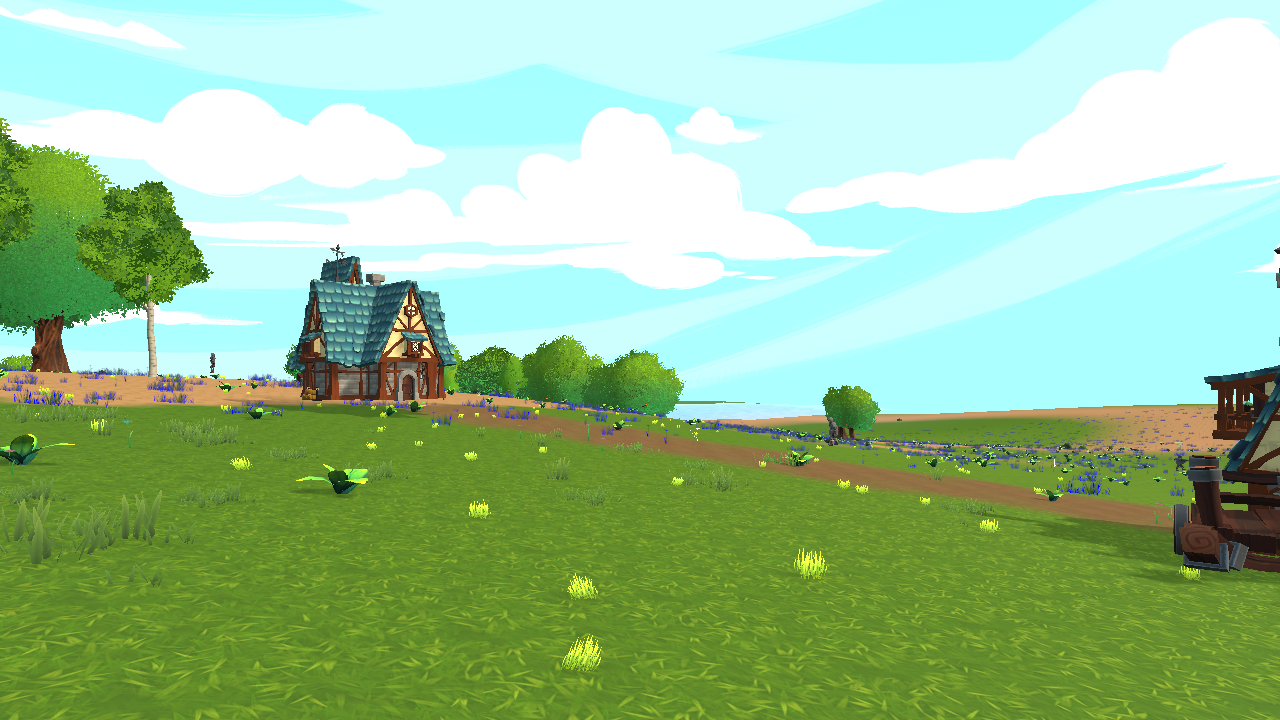
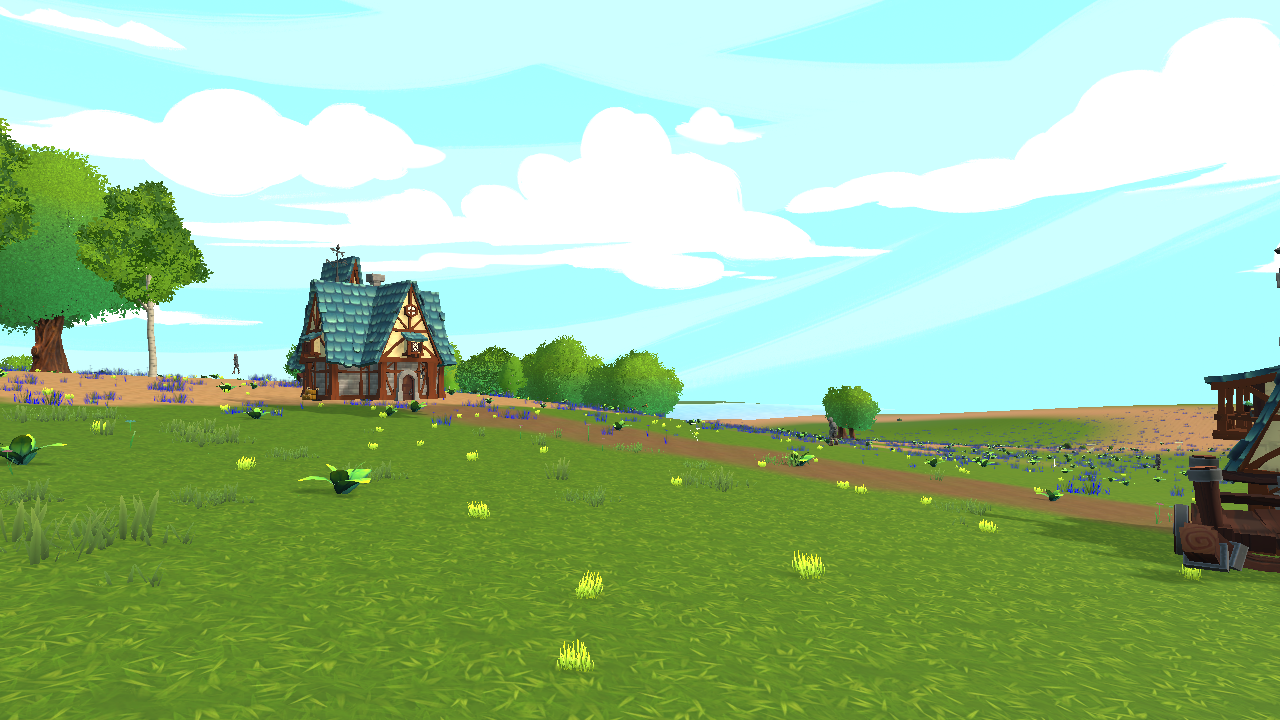
TD-133: THE GROUND HAD NEVER SAMPLED A SINGLE NORMAL MAP (D-249)
EP: "the packs also contain roads, cobblestone etc" and "we want as close to AAA quality
on the environment as possible". Measured in three steps.

1. ARE THERE ROAD MESHES TO USE? No. Searched both paid packs: no road/street/pavement
   prefabs at all, only stairs and streetlamps. So painting the terrain IS the right
   method for the ways, not a shortcut.

2. THE GROUND LAYERS. The project holds FIFTEEN TerrainLayer assets; the catalog only
   ever asked for eleven, and the two it never asked for by name are the ones that matter
   here -- Layer_walkway_city_01/02 are the City pack's own ROAD surfaces. Our cobble was
   pavingstone_01, chosen from a candidate list the pack's actual road was not even in.
   The walkway layers now lead that chain; Layer_Cobblestone stays but last, because the
   catalog has warned twice that it carries NO diffuse at all -- a layer without a
   texture is not a layer. Catalog resolves 15/17.

3. AND THE ONE THAT WAS WORTH MOST. Every ground layer these packs ship carries a normal
   map, and the six we use carry one each. Before:

     terrain material: Universal Render Pipeline/Terrain/Lit  keywords=[_TERRAIN_8_LAYERS]
     layers carrying a normal map: 6/6
     FAIL  the ground samples the normal maps it was given

   URP reads terrain normal maps only when _NORMALMAP is on, and that keyword is set by
   the terrain material INSPECTOR -- which never runs for a material created in code at
[…]

diff --git a/Assets/Emergence/Fas3/Runtime/Fas3TerrainBuilder.cs b/Assets/Emergence/Fas3/Runtime/Fas3TerrainBuilder.cs
@@ -69,6 +69,27 @@ namespace Emergence.Runtime
             if (sh != null) terrain.materialTemplate = new Material(sh) { name = "EmergenceTerrainLit" };
             if (terrain.materialTemplate != null && data.terrainLayers.Length > 4)
                 terrain.materialTemplate.EnableKeyword("_TERRAIN_8_LAYERS");
+            // D-249 — THE GROUND HAD NEVER SAMPLED A SINGLE NORMAL MAP.
+            // Every one of the fifteen terrain layers these packs ship carries a normal map, and the
+            // six we use carry one each. URP's terrain shader only reads them when _NORMALMAP is on,
+            // and that keyword is set by the terrain material INSPECTOR -- which never runs for a
+            // material we create in code at runtime. So the world has been lit as if cobble, gravel,
+            // ploughed field and turf were all perfectly flat paper, with the relief the artists
+            // authored sitting unused in the project. The probe now asserts it rather than trusting it.
+            // (_MASKMAP likewise: it carries the smoothness and occlusion these layers were authored
+            // with, and is enabled only when a mask is actually present so nothing samples a null.)
+            if (terrain.materialTemplate != null)
+            {
+                bool anyNormal = false, anyMask = false;
+                foreach (var tl in data.terrainLayers)
+                {
+                    if (tl == null) continue;
+                    if (tl.normalMapTexture != null) anyNormal = true;
+                    if (tl.maskMapTexture != null) anyMask = true;
+                }
+                if (anyNormal) terrain.materialTemplate.EnableKeyword("_NORMALMAP");
+                if (anyMask) terrain.materialTemplate.EnableKeyword("_MASKMAP");
+            }
             terrain.drawInstanced = true;
 
             // D-215b: the detail meshes were built but never seen at eye level. Unity's defaults are
@@ -271,7 +292,12 @@ namespace Emergence.Runtime
                 field  = Add(cat, layers, new[] { "Layer_farmfield", "Layer_Dirt" }, new Color(0.45f, 0.35f, 0.2f)),
                 path   = Add(cat, layers, new[] { "Layer_Dirt" }, new Color(0.42f, 0.32f, 0.2f)),
                 gravel = Add(cat, layers, new[] { "Layer_gravel_01", "Layer_Rock", "Layer_Stone", "Layer_rock_01" }, new Color(0.5f, 0.48f, 0.45f)),
-                cobble = Add(cat, layers, new[] { "Layer_pavingstone_01", "Layer_Cobblestone", "Layer_Dirt" }, new Color(0.55f, 0.53f, 0.5f)),
+                // D-249: the pack ships a WALKWAY surface, which is what a laid road actually is.
+                // Layer_Cobblestone stays in the chain but sits behind it -- the catalog has warned
+                // twice that it carries no diffuse at all, and a layer without a texture is not a layer.
+                cobble = Add(cat, layers, new[] { "Layer_walkway_city_01", "Layer_walkway_city_02",
+                                                  "Layer_pavingstone_01", "Layer_pavingstone_02",
+                                                  "Layer_Cobblestone", "Layer_Dirt" }, new Color(0.55f, 0.53f, 0.5f)),
             };
             // D-247 — THE MEADOW WAS ONE TEXTURE OVER NINETY-ONE PER CENT OF THE WORLD.
             // Layer_grass_01 has been in the project the whole time, and it was written down as a

diff --git a/Assets/Emergence/Fas1/Editor/GroundCaptureProbe.cs b/Assets/Emergence/Fas1/Editor/GroundCaptureProbe.cs
@@ -211,6 +211,24 @@ namespace Emergence.Editor
                             var nm = l2 < td.terrainLayers.Length && td.terrainLayers[l2] != null ? td.terrainLayers[l2].name : ("layer" + l2);
                             bits.Add(nm + "=" + (mean[l2] * 100f).ToString("F0") + "%");
                         }
+                        // D-249: WHETHER THE RELIEF IS EVEN SWITCHED ON. Every one of the fifteen
+                        // terrain layers in this project ships a normal map, but URP only samples them
+                        // when the terrain material carries _NORMALMAP -- a keyword the editor sets for
+                        // hand-made terrains and that a RUNTIME-created material has no one to set. So
+                        // print the material, its keywords and which layers actually carry a normal,
+                        // instead of assuming the ground is lit the way the textures were authored for.
+                        var terrMat = terrain;
+                        if (terrMat != null && terrMat.materialTemplate != null)
+                        {
+                            var mt = terrMat.materialTemplate;
+                            sb.AppendLine("     terrain material: " + mt.shader.name + "  keywords=["
+                                          + string.Join(", ", mt.shaderKeywords) + "]");
+                            int withN = 0;
+                            foreach (var tl in td.terrainLayers) if (tl != null && tl.normalMapTexture != null) withN++;
+                            sb.AppendLine("     layers carrying a normal map: " + withN + "/" + td.terrainLayers.Length);
+                            Check(withN == 0 || System.Array.IndexOf(mt.shaderKeywords, "_NORMALMAP") >= 0,
+                                  "the ground samples the normal maps it was given (" + withN + " layers carry one)");
+                        }
                         sb.AppendLine("     the ground is painted: " + string.Join("  ", bits)
                                       + "   (alphamap " + AW + "x" + AH + ")");
                     }

diff --git a/Assets/Emergence/Fas3/Editor/CatalogBuild.cs b/Assets/Emergence/Fas3/Editor/CatalogBuild.cs
@@ -182,9 +182,17 @@ namespace Emergence.Editor
             // VÅG 1.1 (D-209): terrain layers, resolved here so the RUNTIME terrain builder needs no
             // AssetDatabase. Names are exactly the dresser's own candidates, preference order intact.
             cat.terrainLayers.Clear();
-            var wantedLayers = new[] { "Layer_Grass", "Layer_grass_01", "Layer_farmfield", "Layer_Dirt",
-                                       "Layer_Rock", "Layer_gravel_01", "Layer_Stone", "Layer_rock_01",
-                                       "Layer_Cobblestone", "Layer_pavingstone_01", "Layer_Sand" };
+            // D-249 (EP: "i paketen ligger även vägar, kullersten etc"): the project holds FIFTEEN
+            // terrain layers and the catalog only ever asked for eleven. The two it never asked for
+            // by name are the ones that matter most here -- Layer_walkway_city_01/02 are the City
+            // pack's own ROAD surfaces, and a road painted with them is the pack's road rather than
+            // our approximation of one. Same law as everywhere else tonight: a name the catalog does
+            // not carry is a name the runtime cannot reach.
+            var wantedLayers = new[] { "Layer_Grass", "Layer_grass_01", "Layer_grass_city", "Layer_farmfield", "Layer_Dirt",
+                                       "Layer_Rock", "Layer_gravel_01", "Layer_gravel_02", "Layer_gravel_city",
+                                       "Layer_Stone", "Layer_rock_01", "Layer_Cobblestone",
+                                       "Layer_walkway_city_01", "Layer_walkway_city_02",
+                                       "Layer_pavingstone_01", "Layer_pavingstone_02", "Layer_Sand" };
             int lok = 0;
             foreach (var ln in wantedLayers)
             {
